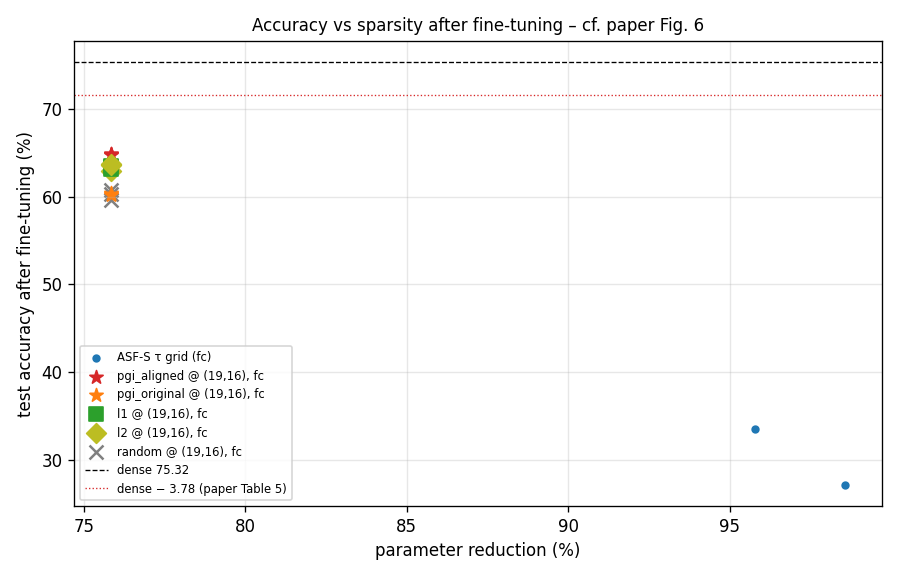
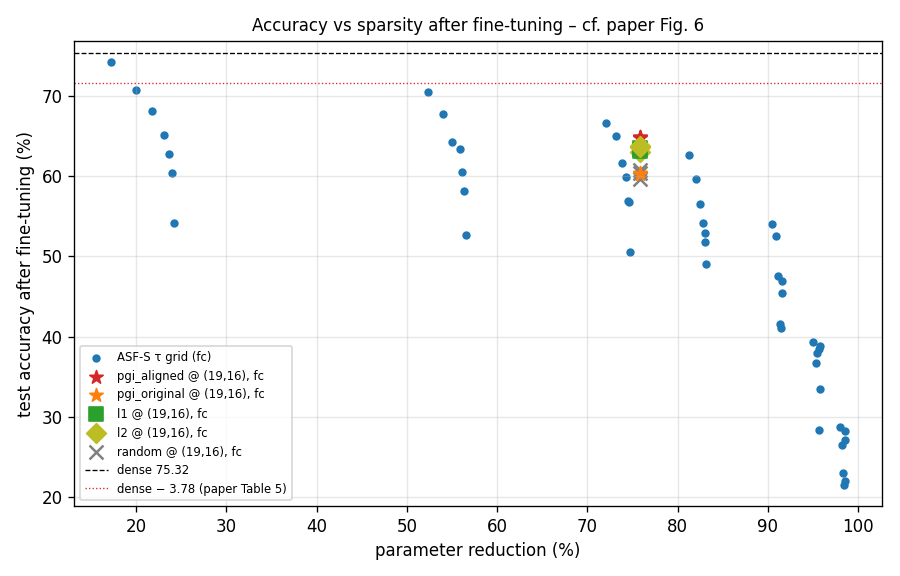
fix:  add option to change the learning rate, and update the logs

diff --git a/cifar10/steps/step8_finetune.py b/cifar10/steps/step8_finetune.py
@@ -19,8 +19,12 @@ aligned PGI (config.PGI_MODE), with the original PGI reported alongside:
 separate method differences from run-to-run noise; --methods restricts which selections run.
 Tables and the gate use the mean over seeds.
 
+--ft-lrs 1e-4,1e-3,3e-3 repeats each fine-tune at those learning rates (default: the recipe's
+1e-4). Runs at the default rate keep their plain mode label (fc, full, ...); others appear as
+fc@0.001 etc. The gate is judged at the default rate; the best rate per method is reported too.
+
 Results are appended to results.csv after each run, and finished runs (scope, method, mode,
-kept counts, ft_seed) are skipped on restart, so a killed session loses at most one run.
+kept counts, ft_seed, ft_lr) are skipped on restart, so a killed session loses at most one run.
 Outputs: results.csv, fig6_pareto.png, gate.json.
 """
 
@@ -38,7 +42,7 @@ from asfs.finetune import finetune
 from asfs.metrics import accuracy, count_flops, count_params, ece, predict
 from asfs.prune import keep_top_k, prune
 
-FIELDS = ["scope", "method", "ft_mode", "ft_seed", "kept_conv1", "kept_conv2", "params", "flops", "params_red",
+FIELDS = ["scope", "method", "ft_mode", "ft_seed", "ft_lr", "kept_conv1", "kept_conv2", "params", "flops", "params_red",
           "flops_red", "pre_acc", "best_val_acc", "best_epoch", "epochs", "test_acc", "test_ece",
           "d_acc", "minutes"]
 
@@ -57,30 +61,39 @@ def scores_by_method(model, args):
     return s
 
 
+DEFAULTS = {"ft_seed": C.SEED, "ft_lr": C.FINETUNE["lr"]}
+
+
 def migrate(path):
-    """results.csv from before --ft-seeds has no ft_seed column; those runs used seed C.SEED."""
+    """Older results.csv files lack ft_seed / ft_lr; those runs used C.SEED and the recipe's lr."""
     if not path.exists():
         return
     with open(path) as f:
         reader = csv.DictReader(f)
-        if "ft_seed" in reader.fieldnames:
+        missing = [c for c in DEFAULTS if c not in reader.fieldnames]
+        if not missing:
             return
-        rows = [{**r, "ft_seed": C.SEED} for r in reader]
+        rows = [{**r, **{c: DEFAULTS[c] for c in missing}} for r in reader]
     with open(path, "w", newline="") as f:
         w = csv.DictWriter(f, fieldnames=FIELDS)
         w.writeheader(); w.writerows(rows)
-    print(f"migrated {len(rows)} rows of {path.name}: added ft_seed = {C.SEED}")
+    print(f"migrated {len(rows)} rows of {path.name}: added " +
+          ", ".join(f"{c} = {DEFAULTS[c]}" for c in missing))
 
 
-def key(scope, method, mode, ft_seed, k1, k2):
-    return (scope, method, mode, int(ft_seed), int(k1), int(k2))
+def key(scope, method, mode, ft_seed, ft_lr, k1, k2):
+    return (scope, method, mode, int(ft_seed), float(ft_lr), int(k1), int(k2))
+
+
+def mode_label(mode, lr):
+    return mode if float(lr) == C.FINETUNE["lr"] else f"{mode}@{float(lr):g}"
 
 
 def done_keys(path):
     if not path.exists():
         return set()
     with open(path) as f:
-        return {key(r["scope"], r["method"], r["ft_mode"], r["ft_seed"], r["kept_conv1"], r["kept_conv2"])
+        return {key(r["scope"], r["method"], r["ft_mode"], r["ft_seed"], r["ft_lr"], r["kept_conv1"], r["kept_conv2"])
                 for r in csv.DictReader(f)}
 
 
@@ -93,7 +106,7 @@ def append(path, row):
         w.writerow(row)
 
 
-def run_one(args, model, keep, ft_mode, ft_seed, splits, device, base_acc, base_params, base_flops):
+def run_one(args, model, keep, ft_mode, ft_seed, ft_lr, splits, device, base_acc, base_params, base_flops):
     pm = prune(model, keep)
     cpu = copy.deepcopy(pm).cpu()
     params, flops = count_params(cpu), count_flops(cpu)
@@ -104,7 +117,7 @@ def run_one(args, model, keep, ft_mode, ft_seed, splits, device, base_acc, base_
     seed_everything(ft_seed)
     cfg = C.FINETUNE
     train = data.loader(splits["train"], cfg["batch_size"], True, device, args.backend, ft_seed)
-    best, hist = finetune(pm, ft_mode, train, val, cfg["lr"], args.max_epochs or cfg["max_epochs"],
+    best, hist = finetune(pm, ft_mode, train, val, ft_lr, args.max_epochs or cfg["max_epochs"],
                           cfg["patience"])
     logits, labels = predict(pm, test)
     test_acc = accuracy(logits, labels)
@@ -154,6 +167,8 @@ def main():
         ap.add_argument("--ft-modes", default="fc,fc_frozen,full", help="paper scope fine-tuning modes")
         ap.add_argument("--random-draws", type=int, default=3)
         ap.add_argument("--ft-seeds", default=None, help="comma-separated fine-tuning seeds (default: --seed)")
+        ap.add_argument("--ft-lrs", default=None,
+                        help="comma-separated fine-tuning learning rates (default: the recipe's 1e-4)")
         ap.add_argument("--methods", default=None,
                         help="comma-separated subset, e.g. pgi_aligned,pgi_original,l1,l2 (default: all)")
         ap.add_argument("--max-epochs", type=int, default=None, help="override (smoke tests)")
@@ -167,6 +182,7 @@ def main():
     migrate(csv_path)
     done = done_keys(csv_path)
     ft_seeds = [int(x) for x in (args.ft_seeds or str(args.seed)).split(",")]
+    ft_lrs = [float(x) for x in (args.ft_lrs or str(C.FINETUNE["lr"])).split(",")]
 
     model = models.build(args.model).to(device)
     model.load_state_dict(torch.load(run_dir(args) / "step1_train" / "model_best.pth",
@@ -190,24 +206,26 @@ def main():
         for method in methods:
             for mode in args.ft_modes.split(","):
                 for sd in ft_seeds:
-                    jobs.append(("paper", method, mode, sd,
-                                 {c: keep_top_k(scores[method][c], k[c]) for c in layers}))
+                    for lr in ft_lrs:
+                        jobs.append(("paper", method, mode, sd, lr,
+                                     {c: keep_top_k(scores[method][c], k[c]) for c in layers}))
     if args.scope in ("grid", "all"):
         with open(run_dir(args) / f"step7_prune_grid_{args.grid_variant}" / "grid.csv") as f:
             counts = sorted({(int(r["kept_conv1"]), int(r["kept_conv2"])) for r in csv.DictReader(f)})
         pgi = scores[f"pgi_{args.grid_variant}"] if args.grid_variant != "primary" else scores["pgi_aligned"]
         for k1, k2 in counts:
             for sd in ft_seeds:
-                jobs.append(("grid", f"pgi_{args.grid_variant}", "fc", sd,
-                             {"conv1": keep_top_k(pgi["conv1"], k1), "conv2": keep_top_k(pgi["conv2"], k2)}))
+                for lr in ft_lrs:
+                    jobs.append(("grid", f"pgi_{args.grid_variant}", "fc", sd, lr,
+                                 {"conv1": keep_top_k(pgi["conv1"], k1), "conv2": keep_top_k(pgi["conv2"], k2)}))
 
-    todo = [j for j in jobs if key(*j[:4], j[4]["conv1"].sum(), j[4]["conv2"].sum()) not in done]
+    todo = [j for j in jobs if key(*j[:5], j[5]["conv1"].sum(), j[5]["conv2"].sum()) not in done]
     print(f"{len(jobs)} runs planned, {len(jobs) - len(todo)} already done, {len(todo)} to go")
-    for i, (scope, method, mode, sd, keep) in enumerate(todo, 1):
-        r = run_one(args, model, keep, mode, sd, splits, device, base_acc, base_params, base_flops)
-        row = {"scope": scope, "method": method, "ft_mode": mode, "ft_seed": sd, **r}
+    for i, (scope, method, mode, sd, lr, keep) in enumerate(todo, 1):
+        r = run_one(args, model, keep, mode, sd, lr, splits, device, base_acc, base_params, base_flops)
+        row = {"scope": scope, "method": method, "ft_mode": mode, "ft_seed": sd, "ft_lr": lr, **r}
         append(csv_path, row)
-        print(f"[{i}/{len(todo)}] {scope:5s} {method:13s} {mode:9s} seed {sd} kept ({r['kept_conv1']},{r['kept_conv2']}) "
+        print(f"[{i}/{len(todo)}] {scope:5s} {method:13s} {mode_label(mode, lr):13s} seed {sd} kept ({r['kept_conv1']},{r['kept_conv2']}) "
               f"params↓ {r['params_red']:5.1f}%  pre {r['pre_acc']:5.2f} → test {r['test_acc']:5.2f} "
               f"(Δ {r['d_acc']:+.2f}, ep {r['best_epoch']}/{r['epochs']}, {r['minutes']} min)", flush=True)
 
@@ -218,7 +236,7 @@ def main():
     runs = {}
     for r in rows:
         if r["scope"] == "paper":
-            runs.setdefault((r["method"], r["ft_mode"]), []).append(float(r["d_acc"]))
+            runs.setdefault((r["method"], mode_label(r["ft_mode"], r["ft_lr"])), []).append(float(r["d_acc"]))
     if not runs:
         return
     paper = {k: round(float(np.mean(v)), 2) for k, v in runs.items()}
@@ -245,7 +263,17 @@ def main():
             check(f"{primary} fc ΔAcc ≥ L1", ours, paper.get(("l1", "fc")), ok=ours >= paper.get(("l1", "fc"), np.inf)),
             check(f"{primary} fc ΔAcc ≥ random mean", ours, round(float(rand), 2), ok=ours >= rand),
         ]
+    best_fc = {}
+    for (m, md), v in paper.items():
+        if md == "fc" or md.startswith("fc@"):
+            if m not in best_fc or v > best_fc[m][1]:
+                best_fc[m] = (md, v)
+    if any(md.startswith("fc@") for _, md in paper):
+        print("\nBest FC-only learning rate per method (mean ΔAcc):")
+        for m, (md, v) in sorted(best_fc.items(), key=lambda kv: -kv[1][1]):
+            print(f"  {m:14s} {v:7.2f}  ({md})")
     write_gate(out, "step8_finetune", args, checks, info={
+        "best_fc_over_lr": {m: {"mode": md, "d_acc": v} for m, (md, v) in best_fc.items()},
         "base_test_acc": round(base_acc, 2), "paper_target_d_acc": target,
         "paper_point_mean": {f"{m}|{md}": round(v, 2) for (m, md), v in paper.items()},
         "paper_point_runs": {f"{m}|{md}": v for (m, md), v in runs.items()},

diff --git a/cifar10/tests/test_step8.py b/cifar10/tests/test_step8.py
@@ -51,19 +51,22 @@ def test_configure_trainable_sets():
     assert len(p) == len(list(m.parameters())) and all(x.requires_grad for x in p)
 
 
-def test_results_csv_migration_and_resume_keys(tmp_path):
+@pytest.mark.parametrize("missing", [("ft_seed", "ft_lr"), ("ft_lr",)])
+def test_results_csv_migration_and_resume_keys(tmp_path, missing):
     import csv
-    from step8_finetune import FIELDS, done_keys, key, migrate
-    old = [f for f in FIELDS if f != "ft_seed"]
+    from step8_finetune import FIELDS, done_keys, key, migrate, mode_label
+    old = [f for f in FIELDS if f not in missing]
     p = tmp_path / "results.csv"
     with open(p, "w", newline="") as f:
         w = csv.DictWriter(f, fieldnames=old); w.writeheader()
         w.writerow({**{k: 0 for k in old}, "scope": "paper", "method": "l1", "ft_mode": "fc",
-                    "kept_conv1": 19, "kept_conv2": 16})
+                    "ft_seed": 42, "kept_conv1": 19, "kept_conv2": 16})
     migrate(p)
     migrate(p)                                                    # idempotent
     rows = list(csv.DictReader(open(p)))
-    assert len(rows) == 1 and rows[0]["ft_seed"] == "42"
+    assert len(rows) == 1 and rows[0]["ft_seed"] == "42" and float(rows[0]["ft_lr"]) == 1e-4
     done = done_keys(p)
-    assert key("paper", "l1", "fc", 42, 19, 16) in done
-    assert key("paper", "l1", "fc", 43, 19, 16) not in done
+    assert key("paper", "l1", "fc", 42, 1e-4, 19, 16) in done
+    assert key("paper", "l1", "fc", 43, 1e-4, 19, 16) not in done
+    assert key("paper", "l1", "fc", 42, 1e-3, 19, 16) not in done
+    assert mode_label("fc", 1e-4) == "fc" and mode_label("fc", 0.003) == "fc@0.003"

diff --git a/cifar10/LOG.md b/cifar10/LOG.md
@@ -8,6 +8,61 @@ driver 535, torch 2.5.1+cu121.
 
 ---
 
+# 2026-10-21 — Step 8 grid: FC-only accuracy falls steadily with sparsity; ~72% point is close to Table 1
+
+## Run
+
+| | |
+|---|---|
+| Command | `./cifar10/run.sh 8 --scope grid` (aligned PGI, fc, seed 42), resumed after 2 done |
+| Runs | 47 new + 2 earlier = 49 unique kept-count configurations, 10:47 → about 13:20 |
+| Outputs | `results.csv` (37 paper + 49 grid rows), `fig6_pareto.png` |
+
+Selected points (ΔAcc vs dense 75.32; full table in `results.csv`):
+
+| kept (conv1, conv2) | params↓ | FLOPs↓ | before FT | after fc FT | ΔAcc |
+|---|---|---|---|---|---|
+| 26, 54 | 17.2 | 30.4 | 52.08 | 74.15 | **−1.17** |
+| 26, 31 | 52.3 | 58.3 | 21.57 | 70.48 | −4.84 |
+| 16, 31 | 54.0 | 73.8 | 12.71 | 67.77 | −7.55 |
+| **26, 18** | **72.1** | 74.1 | 26.74 | 66.66 | **−8.66** |
+| 16, 18 | 73.2 | 83.8 | 13.85 | 64.98 | −10.34 |
+| *(19, 16), paper scope, 3 seeds* | *75.8* | *82.7* | | | *−10.50* |
+| 26, 12 | 81.3 | 81.4 | 19.69 | 62.63 | −12.69 |
+| 26, 6 | 90.4 | 88.7 | 16.27 | 54.07 | −21.25 |
+| 26, 3 | 95.0 | 92.3 | 9.99 | 39.38 | −35.94 |
+
+## Findings
+
+1. **FC-only fine-tuning never returns to baseline.** Even the mildest grid point (17% params↓) loses 1.17
+   points, and the loss grows steadily with sparsity (−4.8 at 52%, −8.7 at 72%, −12.7 at 81%, −21 at 90%).
+   There is no plateau where accuracy stays at 100% of baseline, contrary to §1's "up to 70%".
+2. **The ~72% point is close to Table 1.** (26, 18): −8.66 vs Table 1's −7.74 at "70% sparsity", within
+   0.9 points, though Table 1's FLOPs figure (57%) cannot occur. So Table 1's *accuracy* for Conv2Net is
+   roughly reproducible with FC-only fine-tuning. It is Table 5's −3.78 at 75.8%, and the 100%-of-baseline
+   claim, that are not.
+3. **Pruning conv1 is what hurts FC-only recovery most.** At fixed conv2 = 54, going from 26 to 1 conv1 filter
+   takes ΔAcc from −1.17 to −21.15. Because conv2 is frozen, it cannot adapt to losing its inputs. Configurations
+   that keep most of conv1 dominate the accuracy-vs-params front.
+4. **The paper point is consistent with the grid.** (19, 16) at −10.50 sits between (26, 18) −8.66 and
+   (16, 18) −10.34, as expected from its kept counts.
+
+## Next (fairness checks before any redesign, ranked)
+
+- [ ] **FC-only learning rate:** try 1e-3 and 3e-3 for all methods at (19, 16). This is the one most likely to
+  move the headline gap. **Added:** `--ft-lrs` on step 8.
+  - `ft_lr` is now part of each run's identity in `results.csv`. Existing rows are migrated to 1e-4; this was
+    tested on a copy of the real file, where all 86 rows still count as done.
+  - Runs at the default rate keep their label (`fc`); others show as `fc@0.001`.
+  - The gate stays at the default rate, and the best rate per method is printed and stored.
+  - Command: `./cifar10/run.sh 8 --scope paper --ft-seeds 42 --ft-lrs 1e-3,3e-3 --ft-modes fc`. All 7 methods,
+    14 runs, about 35–40 min. One seed is enough to screen: seed sd under FC-only was ≤ 0.4.
+- [ ] **Fully original pipeline end to end:** S = 1, σ = 0.1, legacy PG1, literal PGI with |mean|, then prune
+  and fine-tune.
+- [ ] **A weaker dense model (~72.7%):** repeat (19, 16).
+
+---
+
 # 2026-10-21 — Step 8 seeds: aligned PGI's FC-only advantage is real; its full-FT advantage was noise
 
 ## Run
@@ -67,7 +122,7 @@ Per seed:
 ## Next
 
 - [x] Server: moved `cifar10/outputs` → `~/asfs_outputs`, set `ASFS_OUTPUTS`, restored the tracked copies, pulled `c5a75fa`
-- [ ] Resume `--scope grid` (2 of 49 configs done; about 2.4 h). **Running since 10:47 on 2026-10-21, writing to `~/asfs_outputs`**
+- [x] Grid finished (49/49), see the entry above
 - [ ] Laptop: rsync the seed and grid results, then commit
 
 ---

diff --git a/cifar10/README.md b/cifar10/README.md
@@ -46,7 +46,7 @@ Checkpoints and `.npz` files stay on the server. Logs are copied but gitignored.
 | 5 | Contrast + PCA, Eq. 9–11 | top-4 explained variance ≈ 90% (§C.3), ≥ 0.85 | **PASS**: 92.7% (paper ~90%); no sign flips needed |
 | 6 | PGI, Eq. 12–13 (`literal` / `aligned`) | Fig. 11; sanity (finite, [0,1], non-degenerate); ρ vs L1 norm | **PASS**: half of each layer < 0.2; aligned vs original ρ ≈ 0 (−0.16, +0.03) |
 | 7 | Prune, 9×9 τ grid | prune == mask; operating points of Tables 1 and 5 exist; pre-FT PGI vs L1/random | **PASS** (aligned). Table 5 point = exactly (19,16) kept; Table 1 point infeasible; grid too coarse to hit (19,16) |
-| 8 | Fine-tune: FC-only (b), full (a) | ΔAcc −3.78 at (19,16) kept = 75.8% params↓ (Table 5); PGI ≥ L1, random. Table 1 point infeasible | **FAIL (fc)**, 3 seeds: aligned −10.50, L1/L2 −11.9, original −15.00 ≈ random. Full FT: all ≈ −4.8 to −5.0 (original −5.61) vs paper −3.78. Grid pending |
+| 8 | Fine-tune: FC-only (b), full (a) | ΔAcc −3.78 at (19,16) kept = 75.8% params↓ (Table 5); PGI ≥ L1, random. Table 1 point infeasible | **FAIL (fc)**, 3 seeds: aligned −10.50, L1/L2 −11.9, original −15.00 ≈ random. Full FT: all ≈ −4.8 to −5.0 (original −5.61) vs paper −3.78. Grid (fc): −1.2 at 17%, −8.7 at 72% (Table 1: −7.74), −21 at 90% |
 | 9 | Baselines: random, L1, L2, top-k | Table 5 rows; Fig. 7 | |
 
 ## Data protocol
